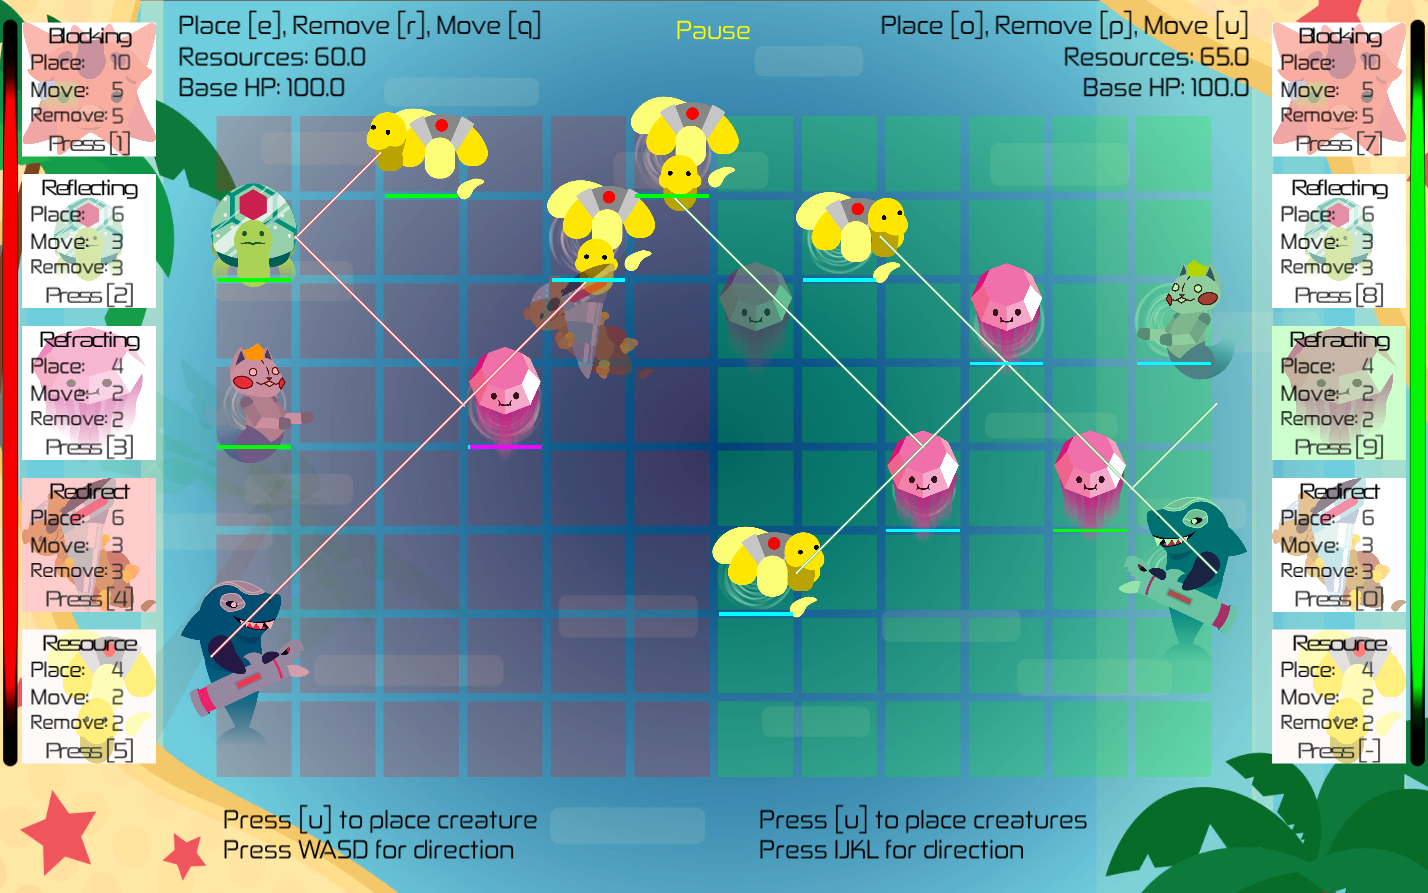
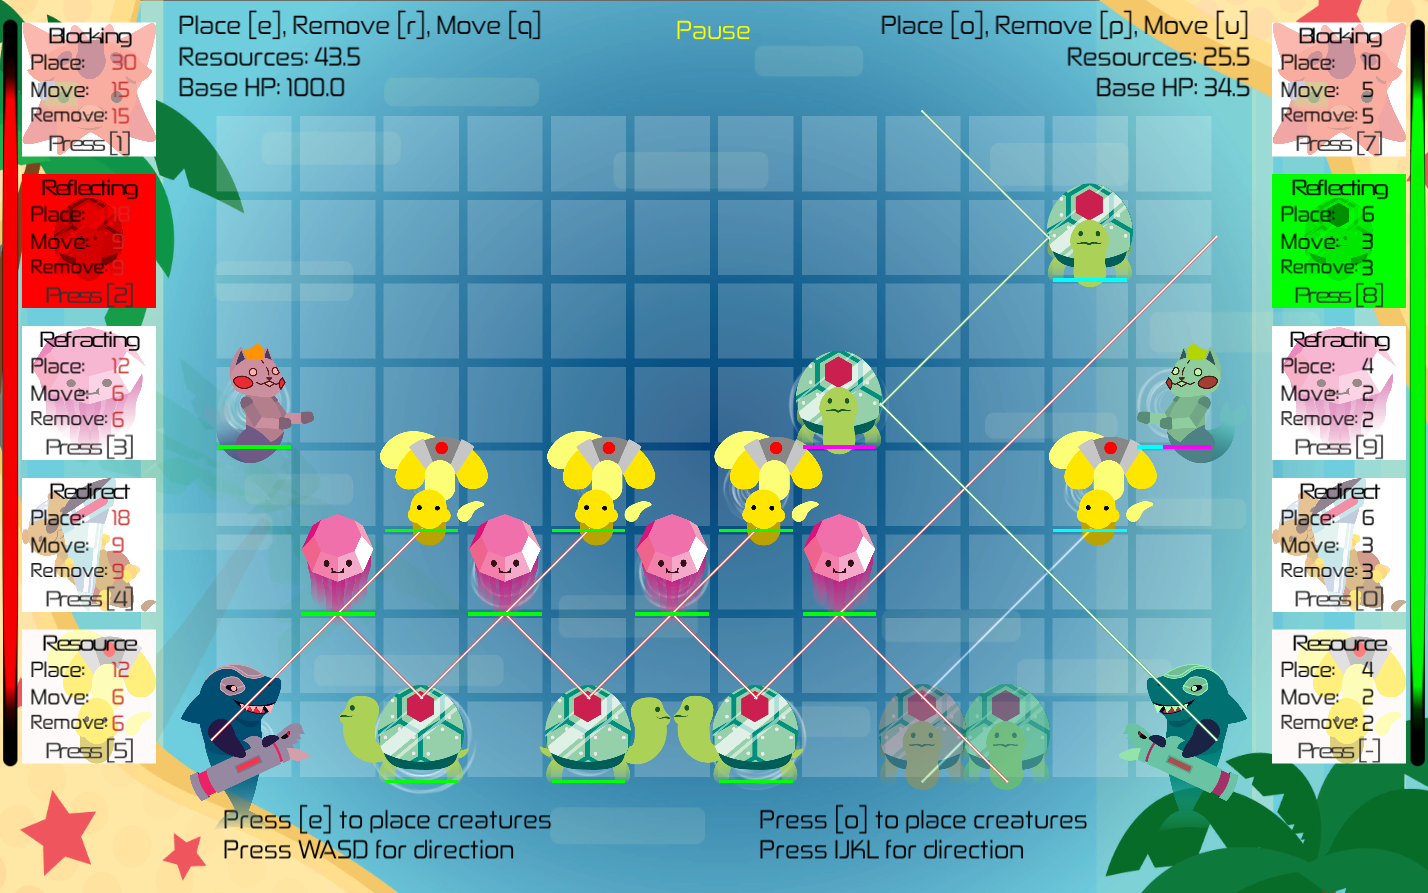
squares go away phase1
grid squares disappear on places where you cannot place. you have to
move cursor over it however, and they reappear when block is destroyed
or moved but only in the spot that the block was.

diff --git a/Assets/Scripts/CoreLogic/gridManager.cs b/Assets/Scripts/CoreLogic/gridManager.cs
@@ -132,16 +132,21 @@ public struct Grid
     private GameObject baseP2;
     private GameObject placementTimer;
 
+    public Dictionary<XY, GameObject> gridSquares;
+    public List<buildingRequest> squarePlaceList;
+    public List<buildingRequest> squareRemoveList;
 
     public Grid(int x, int y, GameObject container, GameObject basePrefab, GameObject basePrefab2, GameObject laserPrefab, GameObject laserPrefab2, GameObject blockPrefab, GameObject blockPrefab2,
         GameObject reflectPrefab, GameObject reflectPrefab2, GameObject refractPrefab, GameObject refractPrefab2, GameObject redirectPrefab, GameObject redirectPrefab2, GameObject resourcePrefab,
         GameObject resourcePrefab2, GameObject portalPrefab, GameObject portalPrefab2, float resources, float buildings, GameObject emptyHolder, GameObject placementTimerObj, float limit)
     {
         grid = new GridItem[y, x];
+        gridSquares = new Dictionary<XY, GameObject>(y*x);
         for (int row = 0; row < y; row++) {
             for (int col = 0; col < x; col++) {
                 grid[row, col] = new GridItem(true, Building.Empty, Player.World, Direction.None, 0);
                 GameObject empty = MonoBehaviour.Instantiate(emptyHolder);    //makes transparent planes on each grid square
+                gridSquares[new XY(row, col)] = empty;
                 empty.transform.localPosition = new Vector3((-x / 2) + col + 0.5f, -0.1f, (-y / 2) + row + 0.5f);
                 Color gridColor = Color.white;
                 //if (col < (x/2)) {
@@ -177,6 +182,8 @@ public struct Grid
         prefabDictionary = new Dictionary<XY, GameObject>(buildingPrefabs.Length);
         placementList = new List<buildingRequest>();
         removalList = new List<buildingRequest>();
+        squarePlaceList = new List<buildingRequest>();
+        squareRemoveList = new List<buildingRequest>();
         destructionList = new List<buildingRequest>();
         placementTimer = placementTimerObj;
         resourcesP1 = resources;
@@ -258,12 +265,12 @@ public struct Grid
     public bool probeGrid(int x, int y, Direction placeDir, Building structure)
     {
         if (!validateInput(x, y)) return false;
-        if ((gridManager.theGrid.prefabDictionary.ContainsKey(new XY(x, y-1)) || getBuilding(x, y-1) != Building.Empty) && (isWeakSide(x, y-1, Direction.Up, getBuilding(x, y-1)) || isWeakSide(Direction.Down, placeDir, structure))) return false;
-        if ((gridManager.theGrid.prefabDictionary.ContainsKey(new XY(x, y+1)) || getBuilding(x, y+1) != Building.Empty) && (isWeakSide(x, y+1, Direction.Down, getBuilding(x, y+1)) || isWeakSide(Direction.Up, placeDir, structure))) return false;
-        if ((gridManager.theGrid.prefabDictionary.ContainsKey(new XY(x-1, y)) || getBuilding(x-1, y) != Building.Empty) && (isWeakSide(x-1, y, Direction.Right, getBuilding(x-1, y)) || isWeakSide(Direction.Left, placeDir, structure))) return false;
-        if ((gridManager.theGrid.prefabDictionary.ContainsKey(new XY(x+1, y)) || getBuilding(x+1, y) != Building.Empty) && (isWeakSide(x+1, y, Direction.Left, getBuilding(x+1, y)) || isWeakSide(Direction.Right, placeDir, structure))) return false;
-        if (structure == Building.Laser && (gridManager.theGrid.prefabDictionary.ContainsKey(new XY(x, y - 2)) || getBuilding(x, y - 2) != Building.Empty) && (getBuilding(x, y - 2) == Building.Base)) return false;
-        if (structure == Building.Laser && (gridManager.theGrid.prefabDictionary.ContainsKey(new XY(x, y + 2)) || getBuilding(x, y + 2) != Building.Empty) && (getBuilding(x, y + 2) == Building.Base)) return false;
+        if ((gridManager.theGrid.prefabDictionary.ContainsKey(new XY(x, y - 1)) || getBuilding(x, y - 1) != Building.Empty) && (isWeakSide(x, y - 1, Direction.Up, getBuilding(x, y - 1)) || isWeakSide(Direction.Down, placeDir, structure))) { squareRemoveList.Add(new buildingRequest(new XY(x, y), 0)); return false; }
+        if ((gridManager.theGrid.prefabDictionary.ContainsKey(new XY(x, y+1)) || getBuilding(x, y+1) != Building.Empty) && (isWeakSide(x, y+1, Direction.Down, getBuilding(x, y+1)) || isWeakSide(Direction.Up, placeDir, structure))) { squareRemoveList.Add(new buildingRequest(new XY(x, y), 0)); return false; }
+        if ((gridManager.theGrid.prefabDictionary.ContainsKey(new XY(x-1, y)) || getBuilding(x-1, y) != Building.Empty) && (isWeakSide(x-1, y, Direction.Right, getBuilding(x-1, y)) || isWeakSide(Direction.Left, placeDir, structure))) { squareRemoveList.Add(new buildingRequest(new XY(x, y), 0)); return false; }
+        if ((gridManager.theGrid.prefabDictionary.ContainsKey(new XY(x+1, y)) || getBuilding(x+1, y) != Building.Empty) && (isWeakSide(x+1, y, Direction.Left, getBuilding(x+1, y)) || isWeakSide(Direction.Right, placeDir, structure))) { squareRemoveList.Add(new buildingRequest(new XY(x, y), 0)); return false; }
+        if (structure == Building.Laser && (gridManager.theGrid.prefabDictionary.ContainsKey(new XY(x, y + 2)) || getBuilding(x, y + 2) != Building.Empty) && (getBuilding(x, y + 2) == Building.Base)) { squareRemoveList.Add(new buildingRequest(new XY(x, y), 0)); return false; }
+        if (structure == Building.Laser && (gridManager.theGrid.prefabDictionary.ContainsKey(new XY(x, y - 2)) || getBuilding(x, y - 2) != Building.Empty) && (getBuilding(x, y - 2) == Building.Base)) { squareRemoveList.Add(new buildingRequest(new XY(x, y), 0)); return false; }
         return true;
     }
 
@@ -366,8 +373,9 @@ public struct Grid
 			building.transform.localPosition = coordsToWorld (x, y);
 			building.transform.localEulerAngles = new Vector3 (90, 0, 0);
 			prefabDictionary.Add (new XY (x, y), building);
-			// Subtract Cost From Resources
-			if (playerID == Player.PlayerOne) {
+            squareRemoveList.Add(new buildingRequest(new XY(x, y), 0));
+            // Subtract Cost From Resources
+            if (playerID == Player.PlayerOne) {
 				resourcesP1 -= getCost (newBuilding, x, playerID);
 				buildingNumP1++;
 			} else {
@@ -394,7 +402,8 @@ public struct Grid
 		if (!validateInput (x, y)) return false;
 		if (!grid [y, x].isEmpty && (playerID == grid [y, x].owner || playerID == Player.World) && !grid [y, x].markedForDeath) {
 			removalList.Add (new buildingRequest (new XY (x, y), buildingPrefabs [(int)grid [y, x].building].GetComponent<buildingParameters> ().removalTime, grid [y, x].building, playerID));
-			grid [y, x].markedForDeath = true;
+            squarePlaceList.Add(new buildingRequest(new XY(x, y), 0));
+            grid [y, x].markedForDeath = true;
 
             //Building temp = grid[y, x].building;
             if (grid[y, x].building == Building.Base) { if (grid[y, x].owner == Player.PlayerOne) baseP1 = null; else baseP2 = null; }  // Remove Base Reference
@@ -424,6 +433,7 @@ public struct Grid
         if (!validateInput(x, y)) return false;
         if (!grid[y, x].isEmpty) {
             destructionList.Add(new buildingRequest(new XY(x, y), buildingPrefabs[(int)grid[y, x].building].GetComponent<buildingParameters>().removalTime));
+            squarePlaceList.Add(new buildingRequest(new XY(x, y), 0));
 			//SoundManager.PlaySound (Sounds[0].audioclip, SoundManager.globalSoundsVolume, true, .5f, 1.5f);
             //Building temp = grid[y, x].building;
 			//MonoBehaviour.print("owner: " + grid [y, x].owner);
@@ -476,8 +486,10 @@ public struct Grid
                 building.transform.localPosition = new Vector3((-dimX / 2) + xNew + 0.5f, 0, (-dimY / 2) + yNew + 0.5f);
                 prefabDictionary.Remove(new XY(x, y));
                 prefabDictionary.Add(new XY(xNew, yNew), building);
-			}
-			grid[yNew, xNew].direction = facing;
+            }
+            squarePlaceList.Add(new buildingRequest(new XY(x, y), 0));
+            squareRemoveList.Add(new buildingRequest(new XY(xNew, yNew), 0));
+            grid[yNew, xNew].direction = facing;
             // Rotate
             if(canRotate(grid[yNew, xNew].building)) building.GetComponent<SpriteRenderer>().sprite = building.GetComponent<buildingParameters>().sprites[directionToIndex(facing)];
             // Specify that the board was updated and that laserLogic needs to run a simulation
@@ -593,6 +605,46 @@ public class gridManager : MonoBehaviour
     void LateUpdate()
     {
         deletionCount = 0;
+        for(int i = 0; i< theGrid.squareRemoveList.Count; i++)
+        {
+            int x = theGrid.squareRemoveList[i].coords.x;
+            int y = theGrid.squareRemoveList[i].coords.y; 
+
+            if (theGrid.gridSquares.ContainsKey(new XY(y, x)))
+            {
+                DestroyImmediate(theGrid.gridSquares[new XY(y, x)]);
+                theGrid.gridSquares.Remove(new XY(y, x));
+            }
+            deletions[deletionCount++] = i;
+        }
+        for (int i = 0; i < deletionCount; i++)
+        {
+            theGrid.squareRemoveList.RemoveAt(deletions[i]);
+        }
+        deletionCount = 0;
+        for (int i = 0; i < theGrid.squarePlaceList.Count; i++)
+        {
+            int x = theGrid.squarePlaceList[i].coords.x;
+            int y = theGrid.squarePlaceList[i].coords.y;
+
+            if (!theGrid.gridSquares.ContainsKey(new XY(y, x)))
+            {
+                GameObject temp = MonoBehaviour.Instantiate(empty);    //makes transparent planes on each grid square
+                theGrid.gridSquares[new XY(y, x)] = temp;
+                temp.transform.localPosition = new Vector3((-boardWidth / 2) + x + 0.5f, -0.1f, ( -boardHeight/ 2) + y + 0.5f);
+                Color gridColor = Color.white;
+                gridColor.a = 0.20f;
+                temp.GetComponent<Renderer>().material.color = gridColor;
+
+            }
+            deletions[deletionCount++] = i;
+        }
+        for (int i = 0; i < deletionCount; i++)
+        {
+            theGrid.squarePlaceList.RemoveAt(deletions[i]);
+        }
+        deletionCount = 0;
+
         // Place buildings
         for (int i = 0; i < theGrid.placementList.Count; i++) {
             if (theGrid.placementList[i].updateTime(Time.deltaTime) <= 0f) {

diff --git a/Assets/Scripts/CoreLogic/inputController.cs b/Assets/Scripts/CoreLogic/inputController.cs
@@ -577,6 +577,8 @@ public class inputController : MonoBehaviour {
                 p2UI.State.text = "Press [o] to place creatures \nPress IJKL for direction \n[o] to confirm";
                 if (cursorP2.direction == Direction.Up && cursorP2.y != yEnd) { if (gridManager.theGrid.placeBuilding(xEnd, cursorP2.y, Building.Laser, Player.PlayerTwo, Direction.Up)) { laserLogic.laserHeadingP2 = Direction.NW; cursorP2.state = State.idle; } else { cursorP2.state = State.placeLaser; } }
                 else if (cursorP2.direction == Direction.Down && cursorP2.y != 0) { if (gridManager.theGrid.placeBuilding(xEnd, cursorP2.y, Building.Laser, Player.PlayerTwo, Direction.Down)) { laserLogic.laserHeadingP2 = Direction.SW; cursorP2.state = State.idle; } else { cursorP2.state = State.placeLaser; } }
+                else if (cursorP2.y != 0) { if (gridManager.theGrid.placeBuilding(xEnd, cursorP2.y, Building.Laser, Player.PlayerTwo, Direction.Down)) { laserLogic.laserHeadingP2 = Direction.SW; cursorP2.state = State.idle; } else { cursorP2.state = State.placeLaser; } }
+                else if (cursorP2.y == 0) { if (gridManager.theGrid.placeBuilding(xEnd, cursorP2.y, Building.Laser, Player.PlayerTwo, Direction.Up)) { laserLogic.laserHeadingP2 = Direction.NW; cursorP2.state = State.idle; } else { cursorP2.state = State.placeLaser; } }
                 else print("Press the up or down direction keys to place laser");
             }
         } else if (currentState == State.placing) {
